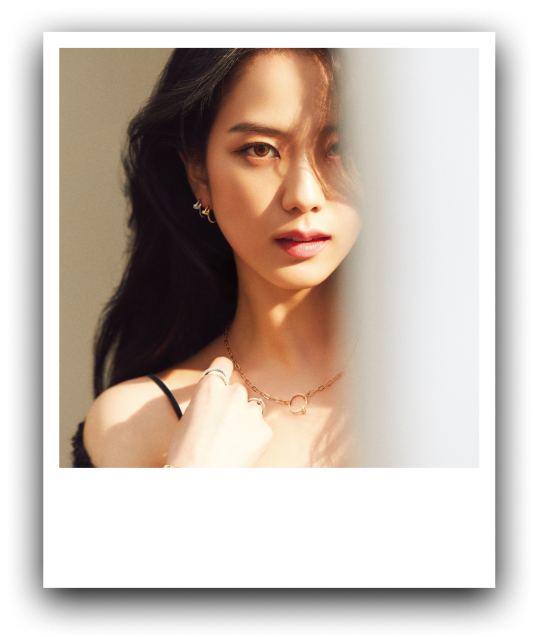
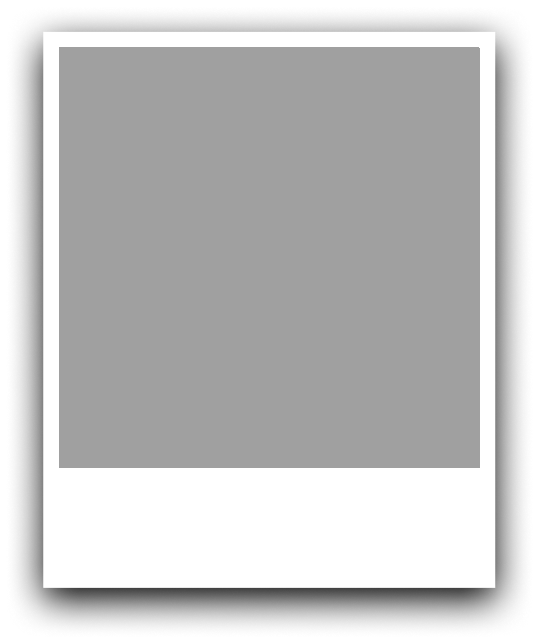
random images

diff --git a/pages/game/[gameId]/index.tsx b/pages/game/[gameId]/index.tsx
@@ -10,6 +10,7 @@ import Vote from "../../../components/Vote";
 import MyResultPage from "../../../components/Result/MyResultPage";
 import Frame from "../../../components/Result/Frame";
 import AllResultPage from "../../../components/Result/AllResultPage";
+import { Photo } from "../../../redux/result";
 
 export enum PAGE_STATE {
   index,
@@ -22,6 +23,7 @@ export enum PAGE_STATE {
 const Home: NextPage = () => {
   const router = useRouter();
   const [title, setTitle] = useState("");
+  const [images, setImages] = useState<Photo[]>([]);
 
   const [pageState, setPageState] = useState(PAGE_STATE.index);
 
@@ -35,6 +37,7 @@ const Home: NextPage = () => {
       })
     )?.json();
     setTitle(result.title);
+    setImages(result.photos);
   }, [router]);
 
   useEffect(() => {
@@ -48,7 +51,12 @@ const Home: NextPage = () => {
       {
         {
           [PAGE_STATE.index]: (
-            <GameStart title={title} setPageState={setPageState} />
+            <GameStart
+              title={title}
+              setPageState={setPageState}
+              images={images}
+              setImages={setImages}
+            />
           ),
           [PAGE_STATE.vote]: (
             <Vote
@@ -60,6 +68,8 @@ const Home: NextPage = () => {
             <AllResultPage
               setPageState={setPageState}
               gameId={router.query.gameId as string}
+              images={images}
+              setImages={setImages}
             />
           ),
           [PAGE_STATE.frame]: (
@@ -72,6 +82,8 @@ const Home: NextPage = () => {
             <MyResultPage
               setPageState={setPageState}
               gameId={router.query.gameId as string}
+              images={images}
+              setImages={setImages}
             />
           ),
         }[pageState]

diff --git a/components/GameStart.tsx b/components/GameStart.tsx
@@ -1,5 +1,5 @@
 import styles from "../styles/Intro.module.scss";
-import { setName } from "../redux/result";
+import { Photo, setName } from "../redux/result";
 import common from "../styles/Common.module.scss";
 import { useDispatch, useSelector } from "react-redux";
 import { Dispatch, SetStateAction, useState } from "react";
@@ -7,13 +7,18 @@ import { StoreState } from "../redux/store";
 import { useRouter } from "next/router";
 import { PAGE_STATE } from "../pages/game/[gameId]";
 import { Layout } from "./Layout";
+import { Photos } from "./Photos";
 
 export const GameStart = ({
   title,
   setPageState,
+  images,
+  setImages,
 }: {
   title: string;
   setPageState: Dispatch<SetStateAction<PAGE_STATE>>;
+  images: Photo[];
+  setImages: Function;
 }) => {
   const { name } = useSelector((state: StoreState) => state.result);
   const dispatch = useDispatch();
@@ -28,11 +33,11 @@ export const GameStart = ({
             나의 최애 포토는 전체 몇 등일까요?
           </div>
         </div>
-        <div className={styles.imgBox}>
-          <img className={styles.img1} src="/assets/introPage/photo.png" />
-          <img className={styles.img2} src="/assets/introPage/photo.png" />
-          <img className={styles.img3} src="/assets/introPage/vs.png" />
-        </div>
+        <Photos
+          src1={images[Math.floor(Math.random() * images.length)]?.img || ""}
+          src2={images[Math.floor(Math.random() * images.length)]?.img || ""}
+          hasvs
+        />
         <div className={styles.informBox}>
           <div className={styles.myInform}>
             <span>내 정보 입력</span>

diff --git a/components/Result/MyResultPage.tsx b/components/Result/MyResultPage.tsx
@@ -6,18 +6,28 @@ import { Layout } from "../Layout";
 import styles from "../../styles/Result.module.scss";
 import common from "../../styles/Common.module.scss";
 import { MyResult } from ".";
-import { Dispatch, SetStateAction } from "react";
+import {
+  Dispatch,
+  SetStateAction,
+  useCallback,
+  useEffect,
+  useState,
+} from "react";
 import { PAGE_STATE } from "../../pages/game/[gameId]";
+import { Photos } from "../Photos";
+import { Photo } from "../../redux/result";
 
 const MyResultPage = ({
   gameId,
   setPageState,
+  images,
+  setImages,
 }: {
   gameId: string;
   setPageState: Dispatch<SetStateAction<PAGE_STATE>>;
+  images: Photo[];
+  setImages: Function;
 }) => {
-  const router = useRouter();
-
   return (
     <Layout footer={<></>} noBackground>
       <Header
@@ -51,10 +61,10 @@ const MyResultPage = ({
         </svg>
       </button>
 
-      <div className={styles.imgBox}>
-        <img className={styles.img1} src="/assets/introPage/photo.png" />
-        <img className={styles.img2} src="/assets/introPage/photo.png" />
-      </div>
+      <Photos
+        src1={images[Math.floor(Math.random() * images.length)].img}
+        src2={images[Math.floor(Math.random() * images.length)].img}
+      />
 
       <button
         className={common.borderedButton}

diff --git a/components/Result/AllResultPage.tsx b/components/Result/AllResultPage.tsx
@@ -14,15 +14,19 @@ import styles from "../../styles/Result.module.scss";
 import common from "../../styles/Common.module.scss";
 import { Photo } from "../../redux/result";
 import { PAGE_STATE } from "../../pages/game/[gameId]";
+import { Photos } from "../Photos";
 
 const AllResultPage = ({
   gameId,
   setPageState,
+  images,
+  setImages,
 }: {
   gameId: string;
   setPageState: Dispatch<SetStateAction<PAGE_STATE>>;
+  images: Photo[];
+  setImages: Function;
 }) => {
-  const [images, setImages] = useState<Photo[]>([]);
   const [sortedData, setSortedData] = useState<Photo[][]>([]);
 
   const fetchData = useCallback(async () => {
@@ -101,10 +105,10 @@ const AllResultPage = ({
           </svg>
         </button>
 
-        <div className={styles.imgBox}>
-          <img className={styles.img1} src="/assets/introPage/photo.png" />
-          <img className={styles.img2} src="/assets/introPage/photo.png" />
-        </div>
+        <Photos
+          src1={images[Math.floor(Math.random() * images.length)]?.img || ""}
+          src2={images[Math.floor(Math.random() * images.length)]?.img || ""}
+        />
 
         <button
           className={common.borderedButton}

diff --git a/components/Photos.tsx b/components/Photos.tsx
@@ -1,0 +1,27 @@
+import styles from "../styles/Photos.module.scss";
+
+export const Photos = ({
+  src1,
+  src2,
+  hasvs = false,
+}: {
+  src1: string;
+  src2: string;
+  hasvs?: boolean;
+}) => (
+  <div className={styles.imgBox}>
+    <div className={styles.img1}>
+      <img src="/assets/introPage/photo.png" />
+      <div className={styles.randomContainer}>
+        <img src={src1} className={styles.random} />
+      </div>
+    </div>
+    {hasvs && <img className={styles.img3} src="/assets/introPage/vs.png" />}
+    <div className={styles.img2}>
+      <img src="/assets/introPage/photo.png" />
+      <div className={styles.randomContainer}>
+        <img src={src2} className={styles.random} />
+      </div>
+    </div>
+  </div>
+);

diff --git a/styles/Photos.module.scss b/styles/Photos.module.scss
@@ -1,0 +1,47 @@
+.imgBox {
+  width: 100%;
+  height: 150px;
+  position: relative;
+  display: flex;
+  justify-content: center;
+  align-items: center;
+  margin-top: 40px;
+}
+
+.img1 {
+  height: 100%;
+  rotate: (-3deg);
+  img {
+    height: 100%;
+  }
+}
+
+.img2 {
+  height: 100%;
+  rotate: (9deg);
+  img {
+    height: 100%;
+  }
+}
+
+.img3 {
+  width: 40px;
+  height: 40px;
+  margin: -25px;
+  z-index: 1;
+}
+
+.randomContainer {
+  position: absolute;
+  top: 10px;
+  left: 15px;
+  right: 12px;
+  bottom: 40px;
+}
+
+.random {
+  width: 100%;
+  height: 100%;
+  object-fit: cover;
+  object-position: center;
+}

diff --git a/styles/Intro.module.scss b/styles/Intro.module.scss
@@ -88,36 +88,6 @@
   width: 100%;
 }
 
-.imgBox {
-  width: 335px;
-  height: 154.97px;
-  position: relative;
-  display: flex;
-  align-items: center;
-}
-
-.imgBox img {
-  position: absolute;
-}
-
-.img1 {
-  width: 130px;
-  rotate: (-3deg);
-  left: 43.26px;
-}
-.img2 {
-  width: 130px;
-  rotate: (9deg);
-  right: 43.26px;
-}
-
-.img3 {
-  width: 40px;
-  height: 40px;
-  top: 57px;
-  left: 147px;
-}
-
 .textBox {
   padding-bottom: 24px;
   width: 335px;

diff --git a/styles/Result.module.scss b/styles/Result.module.scss
@@ -58,27 +58,3 @@ $primary: #ffb800;
   font-size: 16px;
   font-weight: 700;
 }
-
-.imgBox {
-  width: 100%;
-  height: 154.97px;
-  position: relative;
-  display: flex;
-  align-items: center;
-  margin-top: 40px;
-}
-
-.imgBox img {
-  position: absolute;
-}
-
-.img1 {
-  width: 130px;
-  rotate: (-3deg);
-  left: 43.26px;
-}
-.img2 {
-  width: 130px;
-  rotate: (9deg);
-  right: 43.26px;
-}

diff --git a/components/Vote.tsx b/components/Vote.tsx
@@ -76,7 +76,7 @@ const Vote = ({
         await fetch(`${process.env.NEXT_PUBLIC_API_HOST}/${gameId}`)
       ).json();
 
-      const sorted = result.photos
+      const sorted = images
         .sort(() => 0.5 - Math.random())
         .map((photo: Photo) => {
           return { ...photo, score: 0 };
